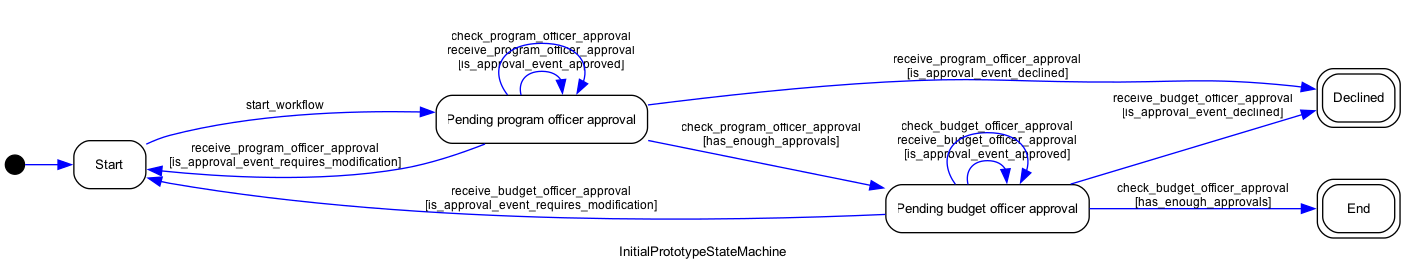
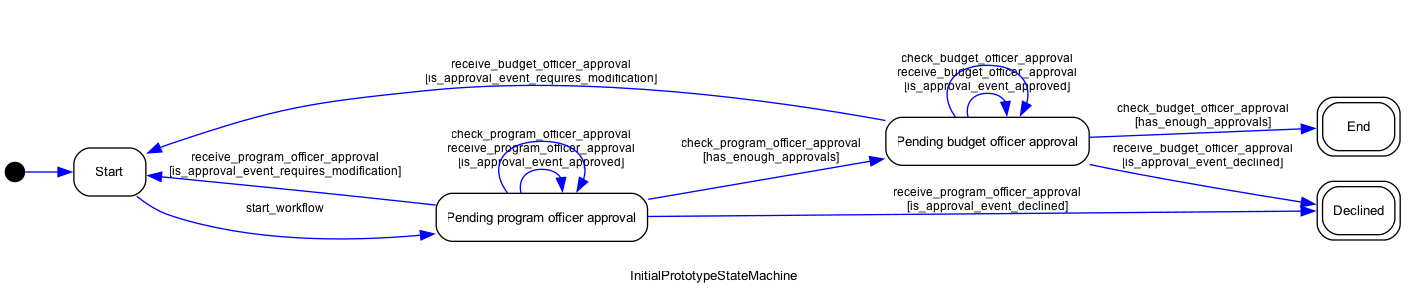
[Issue #8868] Upgrade python state machine to 3.0

diff --git a/api/src/workflow/base_state_machine.py b/api/src/workflow/base_state_machine.py
@@ -1,7 +1,7 @@
 import logging
 from typing import Any, cast
 
-from statemachine import StateMachine
+from statemachine import StateChart
 
 from src.constants.lookup_constants import ApprovalResponseType
 from src.db.models.workflow_models import Workflow
@@ -13,12 +13,25 @@ from src.workflow.state_persistence.base_state_persistence_model import BaseStat
 logger = logging.getLogger(__name__)
 
 
-class BaseStateMachine(StateMachine):
+class BaseStateMachine(StateChart):
     """Base state machine for all state machines
 
     Contains functionality that will be useful for
     all state machines that we build.
     """
+
+    # Atomic configuration update makes it so the state
+    # only changes a single time when transitioning. With
+    # the default configuration it will go state1 -> none -> state2
+    # https://python-statemachine.readthedocs.io/en/latest/behaviour.html#atomic-configuration-update
+    atomic_configuration_update = True
+    # The state machine library will catch all errors and
+    # attempt to handle them with an event that can be customized.
+    # But we would rather let the error bubble up and handle
+    # it ourselves as errors in this logic would mean we can't process
+    # the event successfully.
+    # https://python-statemachine.readthedocs.io/en/latest/behaviour.html#catch-errors-as-events
+    catch_errors_as_events = False
 
     def __init__(self, model: BaseStatePersistenceModel, **kwargs: Any):
         super().__init__(model=model, **kwargs)
@@ -40,14 +53,16 @@ class BaseStateMachine(StateMachine):
         # iterable for some reason.
         return {e.id for e in cls.events}  # type: ignore[attr-defined]
 
+    def get_valid_events_for_current_state(self) -> list[str]:
+        """Utility function to get valid events (as strings) that could be sent for the current state."""
+        # Note that there also exists an enabled_events() function that factors
+        # in conditionals for whether an event is allowed, we'll use the simpler
+        # naive property instead for now.
+        return [event.id for event in self.allowed_events]
+
     @classmethod
-    def get_valid_events_for_state(cls, state: str) -> list[str]:
-
-        s = cls.states_map.get(state, None)
-        if s is None:
-            return []
-
-        return [event.id for event in s.transitions.unique_events]
+    def get_valid_states(cls) -> list[str]:
+        return list(cls.states_map.keys())
 
     #############################
     # Event Handlers
@@ -57,13 +72,13 @@ class BaseStateMachine(StateMachine):
         """Handler for an agency approval event - when approved."""
         ApprovalProcessor(
             db_session=self.db_session, state_machine_event=state_machine_event
-        ).handle_agency_approval_accepted(self.opportunity.agency_record)
+        ).handle_agency_approval_accepted()
 
     def on_agency_approval_declined(self, state_machine_event: StateMachineEvent) -> None:
         """Handler for an agency approval event - when declined."""
         ApprovalProcessor(
             db_session=self.db_session, state_machine_event=state_machine_event
-        ).handle_agency_approval_declined(self.opportunity.agency_record)
+        ).handle_agency_approval_declined()
 
     def on_agency_approval_requires_modification(
         self, state_machine_event: StateMachineEvent
@@ -71,7 +86,7 @@ class BaseStateMachine(StateMachine):
         """Handler for an agency approval event - when it requires modification."""
         ApprovalProcessor(
             db_session=self.db_session, state_machine_event=state_machine_event
-        ).handle_agency_approval_requires_modification(self.opportunity.agency_record)
+        ).handle_agency_approval_requires_modification()
 
     #############################
     # Conditionals

diff --git a/api/src/workflow/handler/event_handler.py b/api/src/workflow/handler/event_handler.py
@@ -2,7 +2,6 @@ import logging
 import uuid
 
 from sqlalchemy import select
-from statemachine.exceptions import InvalidStateValue, TransitionNotAllowed
 
 from src.adapters import db
 from src.constants.lookup_constants import WorkflowEventType, WorkflowType
@@ -13,11 +12,7 @@ from src.workflow.event.state_machine_event import StateMachineEvent
 from src.workflow.event.workflow_event import WorkflowEvent
 from src.workflow.listener.workflow_audit_listener import WorkflowAuditListener
 from src.workflow.registry.workflow_registry import WorkflowRegistry
-from src.workflow.service.workflow_service import (
-    get_and_validate_workflow,
-    get_workflow_entity,
-    is_event_valid_for_workflow,
-)
+from src.workflow.service.workflow_service import get_and_validate_workflow, get_workflow_entity
 from src.workflow.workflow_config import WorkflowConfig
 from src.workflow.workflow_constants import WorkflowConstants
 from src.workflow.workflow_errors import (
@@ -77,34 +72,35 @@ class EventHandler:
             db_session=self.db_session, workflow=state_machine_event.workflow
         )
 
+        log_extra = self.event.get_log_extra() | {"current_workflow_state": persistence_model.state}
+
         # Create the audit listener to track all state transitions
         audit_listener = WorkflowAuditListener(db_session=self.db_session)
+
+        if (
+            state_machine_event.workflow.current_workflow_state
+            not in state_machine_event.state_machine_cls.get_valid_states()
+        ):
+            logger.error("Workflow record has an unexpected state", extra=log_extra)
+            raise UnexpectedStateError("Workflow record has an unexpected state")
 
         state_machine = state_machine_event.state_machine_cls(
             persistence_model, listeners=[audit_listener]
         )
-        log_extra = self.event.get_log_extra() | {"current_workflow_state": persistence_model.state}
 
-        if not is_event_valid_for_workflow(state_machine_event.event_to_send, state_machine):
+        if (
+            state_machine_event.event_to_send
+            not in state_machine.get_valid_events_for_current_state()
+        ):
             logger.warning(
                 "Event is not valid for workflow",
                 extra=log_extra | {"erroring_event": state_machine_event.event_to_send},
             )
             raise InvalidEventError("Event is not valid for workflow")
 
-        try:
-            state_machine.send(
-                event=state_machine_event.event_to_send, state_machine_event=state_machine_event
-            )
-        except TransitionNotAllowed as e:
-            logger.warning(
-                "Event is not valid for current state of workflow",
-                extra=log_extra | {"erroring_event": state_machine_event.event_to_send},
-            )
-            raise InvalidEventError("Event is not valid for current state of workflow") from e
-        except InvalidStateValue as e:
-            logger.error("Workflow record has an unexpected state", extra=log_extra)
-            raise UnexpectedStateError("Workflow record has an unexpected state") from e
+        state_machine.send(
+            event=state_machine_event.event_to_send, state_machine_event=state_machine_event
+        )
 
         return state_machine
 

diff --git a/api/src/workflow/processor/approval_processor.py b/api/src/workflow/processor/approval_processor.py
@@ -2,7 +2,6 @@ import logging
 
 from src.adapters import db
 from src.constants.lookup_constants import ApprovalResponseType, ApprovalType
-from src.db.models.agency_models import Agency
 from src.db.models.user_models import User
 from src.db.models.workflow_models import WorkflowApproval
 from src.workflow.event.state_machine_event import StateMachineEvent
@@ -30,19 +29,17 @@ class ApprovalProcessor:
         self.db_session = db_session
         self.state_machine_event = state_machine_event
 
-    def handle_agency_approval_accepted(self, agency: Agency) -> WorkflowApproval:
+    def handle_agency_approval_accepted(self) -> WorkflowApproval:
         """Handle receiving an Approved event"""
-        return self._handle_agency_approval_event(agency, ApprovalResponseType.APPROVED)
+        return self._handle_agency_approval_event(ApprovalResponseType.APPROVED)
 
-    def handle_agency_approval_declined(self, agency: Agency) -> WorkflowApproval:
+    def handle_agency_approval_declined(self) -> WorkflowApproval:
         """Handle receiving a Declined event"""
-        return self._handle_agency_approval_event(agency, ApprovalResponseType.DECLINED)
+        return self._handle_agency_approval_event(ApprovalResponseType.DECLINED)
 
-    def handle_agency_approval_requires_modification(self, agency: Agency) -> WorkflowApproval:
+    def handle_agency_approval_requires_modification(self) -> WorkflowApproval:
         """Handle receiving a Requires Modification event - also marks all prior events as invalid"""
-        curr_approval = self._handle_agency_approval_event(
-            agency, ApprovalResponseType.REQUIRES_MODIFICATION
-        )
+        curr_approval = self._handle_agency_approval_event(ApprovalResponseType.REQUIRES_MODIFICATION)
 
         # if we receive a requires-modification event, set all approvals to no longer be valid.
         # This likely needs a bit more nuance to use a config to say which
@@ -52,9 +49,7 @@ class ApprovalProcessor:
 
         return curr_approval
 
-    def _handle_agency_approval_event(
-        self, agency: Agency, approval_response_type: ApprovalResponseType
-    ) -> WorkflowApproval:
+    def _handle_agency_approval_event(self, approval_response_type: ApprovalResponseType) -> WorkflowApproval:
         """Handle an agency approval event.
 
         Handles:

diff --git a/api/tests/workflow/state_machine/test_initial_prototype_state_machine.py b/api/tests/workflow/state_machine/test_initial_prototype_state_machine.py
@@ -220,10 +220,10 @@ def test_initial_prototype_state_machine_invalid_events(
         opportunity=opportunity,
     )
 
-    with pytest.raises(InvalidEventError, match="Event is not valid for current state of workflow"):
+    with pytest.raises(InvalidEventError, match="Event is not valid for workflow"):
         send_process_event(
             db_session=db_session,
-            event_to_send="receive_budget_officer_approval",
+            event_to_send=event_to_send,
             workflow_id=workflow.workflow_id,
             user=user,
             expected_state=InitialPrototypeState.START,

diff --git a/api/tests/workflow/handler/test_event_handler.py b/api/tests/workflow/handler/test_event_handler.py
@@ -202,7 +202,7 @@ def test_process_workflow_event_invalid_event_for_current_state(db_session, enab
     event, history_event = build_process_workflow_event(
         workflow.workflow_id, user=user, event_to_send="start_workflow"
     )
-    with pytest.raises(InvalidEventError, match="Event is not valid for current state of workflow"):
+    with pytest.raises(InvalidEventError, match="Event is not valid for workflow"):
         EventHandler(db_session, event, history_event).process()
 
 

diff --git a/api/tests/workflow/processor/test_approval_processor.py b/api/tests/workflow/processor/test_approval_processor.py
@@ -363,7 +363,9 @@ def test_agency_approval_approve_then_decline(db_session, agency, program_office
     )
 
 
-def test_agency_approval_invalid_response_type(db_session, agency, budget_officer, opportunity):
+def test_agency_approval_invalid_response_type(
+    db_session, agency, budget_officer, opportunity, app
+):
     workflow = WorkflowFactory.create(
         workflow_type=WorkflowType.BASIC_TEST_WORKFLOW,
         current_workflow_state=BasicState.PENDING_BUDGET_OFFICER_APPROVAL,

diff --git a/api/bin/create_workflow_diagrams.py b/api/bin/create_workflow_diagrams.py
@@ -37,7 +37,7 @@ def create_workflow_diagrams() -> None:
 
         logger.info(f"Creating workflow diagram for {state_machine_cls.__name__} at {path}")
 
-        DotGraphMachine(state_machine_cls)().write_png(path)  # type: ignore[arg-type]
+        DotGraphMachine(state_machine_cls)().write_png(path)
 
 
 def main() -> None:
